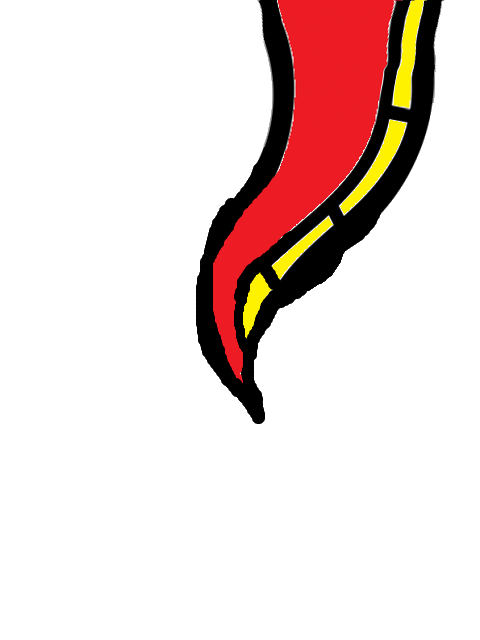
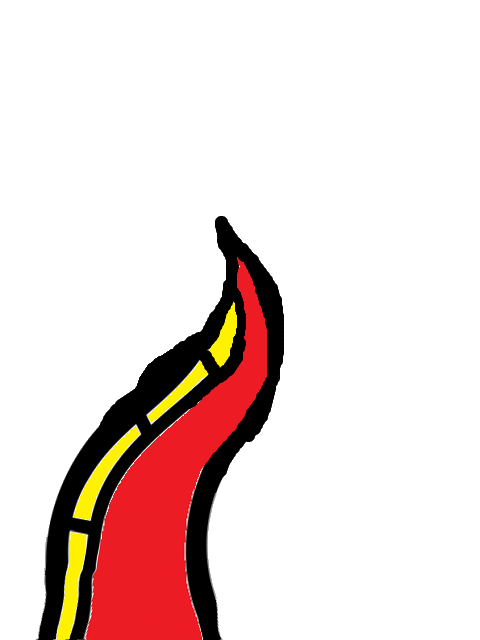
delete unnecessary files

diff --git a/core/src/com/game/snake/Textures.java b/core/src/com/game/snake/Textures.java
@@ -18,7 +18,7 @@ public class Textures {
 
     static Texture snakeHeadLeftUp = new Texture(Gdx.files.internal("snake\\snakeHeadDownLeft1.png"));
 
-    static Texture snakeTail = new Texture(Gdx.files.internal("snake\\snakeTailDown.png"));
+    static Texture snakeTail = new Texture(Gdx.files.internal("snake\\snakeTailUp.png"));
 
     //Tiles Texture
     public static Texture tilesEasyDark = new Texture(Gdx.files.internal("tiles2.png"));
